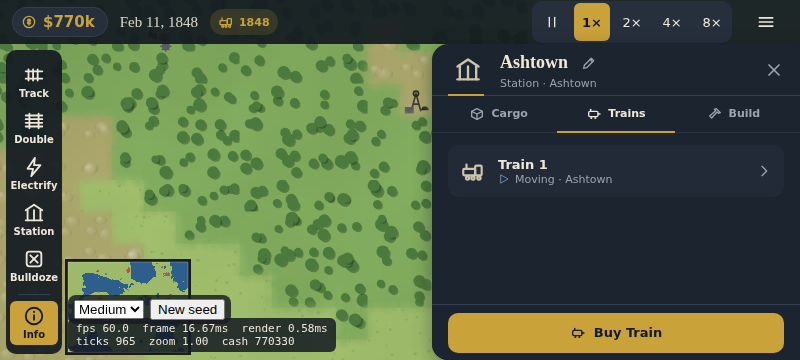
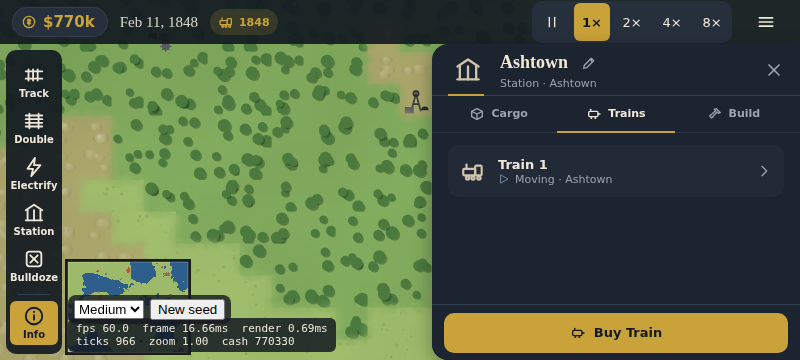
Phase 20: polish, placement/finance footers, docs, screenshots
Claude-Session: https://claude.ai/code/session_01Ay5RoodZxL8iWiZovS5TPK

diff --git a/src/ui/theme.css b/src/ui/theme.css
@@ -553,6 +553,7 @@ button.chip {
   align-items: stretch;
 }
 .cargo-bar-track.mini {
+  flex: 0 0 auto;
   height: 4px;
   min-width: 56px;
   border-radius: 999px;
@@ -709,17 +710,17 @@ button.chip {
 .panel-actions {
   display: flex;
   align-items: center;
-  gap: var(--gap-2);
+  gap: 6px;
   flex: 0 0 auto;
   height: 56px;
-  padding: 0 var(--gap-4);
+  padding: 0 var(--gap-3);
   box-sizing: border-box;
   background: var(--ink-800);
   border-top: 1px solid var(--ink-600);
 }
 .panel-actions button {
   flex: 1;
-  padding: 0 8px;
+  padding: 0 6px;
   min-height: 40px;
   border-radius: var(--radius-m);
   border: none;
@@ -1340,89 +1341,28 @@ button.chip {
   font-variant-numeric: tabular-nums;
 }
 
-/* Finance panel. */
-.finance-loan-actions {
-  gap: var(--gap-2);
-}
-.finance-loan-btn {
-  flex: 1;
-  min-height: 44px;
-  border-radius: var(--radius-m);
-  border: 1px solid var(--ink-600);
-  background: transparent;
-  color: var(--text);
-  font: 700 var(--fs-s) var(--font-ui);
-}
-.finance-loan-btn:disabled {
-  opacity: 0.35;
-}
-.finance-bankrupt-warning {
-  color: var(--signal);
-  font-weight: 700;
-  font-size: var(--fs-s);
-}
-.finance-chart {
-  width: 100%;
-  height: auto;
-  background: var(--ink-700);
-  border-radius: var(--radius-m);
-}
-.finance-chart-legend {
-  display: flex;
-  align-items: center;
-  gap: var(--gap-2);
-  font-size: var(--fs-xs);
-  color: var(--muted);
-}
-.legend-dot {
-  width: 8px;
-  height: 8px;
-  border-radius: 999px;
-  display: inline-block;
-}
-.ledger-net-row {
-  font-weight: 700;
-  border-top: 1px solid var(--ink-600);
-  padding-top: var(--gap-2);
-  margin-top: 2px;
-}
-
 /* Yearly report dialog. */
 .yearly-report-headline {
   display: flex;
   align-items: center;
   justify-content: center;
   gap: var(--gap-2);
-  font: 700 var(--fs-l) var(--font-ui);
+  font: 700 var(--fs-m) var(--font-ui);
   text-align: center;
   padding: var(--gap-2);
   border-radius: var(--radius-m);
-  background: var(--ink-700);
+  background: var(--ink-750);
 }
 .yearly-report-headline.good {
   color: var(--go);
+  background: var(--go-soft);
 }
 .yearly-report-headline.bad {
   color: var(--signal);
+  background: var(--signal-soft);
 }
 
 /* ☰ Menu: overlay toggles + mini-map toggle. */
-.menu-toggle-btn {
-  width: 100%;
-  min-height: 44px;
-  border-radius: var(--radius-m);
-  border: 1px solid var(--ink-600);
-  background: transparent;
-  color: var(--text);
-  font: 700 var(--fs-s) var(--font-ui);
-  text-align: left;
-  padding: 0 var(--gap-3);
-}
-.menu-toggle-btn.active {
-  background: var(--brass);
-  color: var(--ink-900);
-  border-color: var(--brass);
-}
 .menu-cargo-picker {
   display: flex;
   flex-wrap: wrap;
@@ -2566,8 +2506,9 @@ button.card-row:disabled {
 .credit-row .meter-row {
   flex: 1;
 }
-.fbtn-wide {
-  flex: 1.8 !important;
+.panel-actions button.fbtn-wide {
+  flex: 0 0 auto;
+  padding: 0 10px;
 }
 .year-switch .segmented-btn {
   min-height: 28px;
@@ -2576,4 +2517,11 @@ button.card-row:disabled {
 }
 .year-switch {
   padding: 2px;
+}
+.stat-row-4 {
+  grid-template-columns: repeat(4, minmax(0, 1fr));
+  gap: 6px;
+}
+.stat-row-4 .stat-tile {
+  padding: 8px;
 }

diff --git a/e2e/phase20.spec.ts b/e2e/phase20.spec.ts
@@ -125,6 +125,8 @@ test.describe("Phase 20 — UI v2 panels", () => {
     await shot(page, "station-trains");
     await page.locator(".tab", { hasText: "Build" }).click();
     await shot(page, "station-build");
+    await page.locator(".panel-body").evaluate((el) => (el.scrollTop = el.scrollHeight));
+    await shot(page, "station-build-scrolled");
   });
 
   test("industry panel", async ({ page }) => {
@@ -214,5 +216,30 @@ test.describe("Phase 20 — UI v2 panels", () => {
     await page.evaluate(() => window.__game!.runDays(330));
     await page.waitForTimeout(400);
     await shot(page, "yearly-report");
+  });
+
+  test("station placement panel", async ({ page }) => {
+    await setup(page);
+    await page.evaluate(
+      ({ y }) => {
+        const g = window.__game!;
+        const w = g.getMap().width;
+        g.buildTrackPath(Array.from({ length: 20 }, (_, i) => y * w + 71 + i));
+      },
+      { y: ROW_Y },
+    );
+    await page.evaluate(
+      ({ y, tile }) => {
+        window.__game!.camera.setCenter(76.5 * tile, (y + 0.5) * tile);
+        window.__game!.camera.setZoom(1.5);
+      },
+      { y: ROW_Y, tile: TILE_SIZE },
+    );
+    await page.getByRole("button", { name: "Station", exact: true }).click();
+    const p = await page.evaluate(({ y }) => window.__game!.tileScreenPoint(76, y), { y: ROW_Y });
+    await page.mouse.click(p.x, p.y);
+    await expect(page.locator(".panel-title")).toHaveText("New Station");
+    await panelLayoutOk(page);
+    await shot(page, "station-placement");
   });
 });

diff --git a/src/ui/strings.ts b/src/ui/strings.ts
@@ -137,9 +137,9 @@ export const strings = {
     type: "Type",
     tapTrackTile: "Tap a straight or dead-end track tile to place a station",
     catchment: "Catchment",
-    maxTrainLength: "Max train length",
-    storagePerCargo: "Storage/cargo",
-    monthlyMaintenance: "Maintenance",
+    maxTrainLength: "Max cars",
+    storagePerCargo: "Storage",
+    monthlyMaintenance: "Upkeep",
     perMonth: "/mo",
     /** PLAN Phase 16: city/station Supplies chips spell out "/ month" plus the cargo's unit word
      * (if any) instead of a bare number, so "42" reads as "42 / month" and "13" as "13 bags /

diff --git a/src/ui/stationPanels.ts b/src/ui/stationPanels.ts
@@ -268,7 +268,11 @@ export function openStationPlacementPanel(
 
   const statsEl = h("div", { className: "station-stats" });
   const economyEl = h("div", { className: "station-economy" });
-  const buildBtn = footerButton({ kind: "primary", className: "panel-action-build" });
+  const buildBtn = footerButton({
+    kind: "primary",
+    label: strings.station.build,
+    className: "panel-action-build",
+  });
   const cancelBtn = footerButton({
     icon: "close",
     ariaLabel: strings.ui.close,

diff --git a/src/ui/components/statTile.ts b/src/ui/components/statTile.ts
@@ -25,5 +25,5 @@ export function statTile(options: StatTileOptions): HTMLElement {
 }
 
 export function statRow(...tiles: HTMLElement[]): HTMLElement {
-  return h("div", { className: "stat-row" }, ...tiles);
+  return h("div", { className: `stat-row${tiles.length === 4 ? " stat-row-4" : ""}` }, ...tiles);
 }

diff --git a/docs/PROGRESS.md b/docs/PROGRESS.md
@@ -3759,3 +3759,55 @@ Tests: 397 unit (was 390), 105 e2e (was 99); `npm run check` and `npm run e2e` g
 ### Screenshots (opened and checked) — `docs/screenshots/phase-19-*.png`
 `gallery-steam`, `gallery-modern`, `gallery-cars`, `gallery-consists`, `map-steam-smoke-zoom2`, `map-diesel-zoom2`.
 Other phases' screenshot churn was reverted.
+
+## 2026-09-29 — Phase 20: UI system v2 (chrome and non-train panels)
+
+Tests: 406 unit (new `tests/ui/chartMath.test.ts`), 106 e2e (new `e2e/phase20.spec.ts`, 8 tests); `npm run check` and
+`npm run e2e` green. Runs in parallel with Phase 19 (rebased onto its commits; no shared files besides `theme.css`/`main.ts`
+hunks that merged cleanly).
+
+### What changed
+- **Tokens** (STYLE §8.1) added to `theme.css`; `--panel-w` drives the panel width.
+- **Components** in `src/ui/components/`: `panelHeader`, `tabs`, `statTile`/`statRow`, `meter`/`pips`, `cardRow`/`cardList`,
+  `toggleRow`, `emptyState`, `section`, `footerButton`, `charts` (`drawSparkline`, `stackedBar`), `ledgerParts`, plus the pure
+  `chartMath` (sparkline points, stack fractions, meter/pip clamps, cash-flash tone — unit-tested).
+- **`panel.ts`**: PanelHeader v2 (52px, thumb slot, ghost close, brass accent segment), optional sticky tabs row, Footer v2
+  (56px, `.panel-actions` kept as the class). New `key` option + in-place replacement: re-opening a panel (tab switch, action
+  re-render) no longer replays the slide-in and keeps the scroll position for the same `key`. **All** panels, including the
+  train/buy panels, get the new header/footer through it; their inner content is untouched (Phase 22).
+- **Chrome**: cash chip (coin icon, flashes `--go`/`--signal` 600 ms on change), era badge after the date (newest buyable
+  engine's traction icon + intro year), 56px left rail (labels `--fs-2xs`, hairline gap before Info), one vertical pill for
+  Goals/News/Trains (classes unchanged; the pill hides while a panel is open), menu as grouped card lists with toggle rows.
+- **Panels restyled**: City, Station (tabs Cargo / Trains / Build; upgrade card + improvements grid + stats tiles in Build;
+  Buy train is the footer primary), Station placement (type cards with building icons, stat tiles), Industry (recipe as
+  pictograms, chips, nearest-source card rows), Finance (tabs Overview / This year, sparkline, credit meter, income and cost
+  stacked bars, Borrow / Repay / Yearly Report in the footer), Yearly report, News (icon + date rows, unread accent), Goals
+  (medal, meter, %), Settings and Save/Load screens (card lists, switches, icon buttons).
+- The stray glyph after the city population was the growth icon rendered unsized; it is now a 12px tone-coloured arrow
+  (green when growing, muted dash when stagnant) inside the subtitle.
+- Fixed a latent bug: `.cargo-bar-track` had `flex: 1`, which collapsed the station panel's thin waiting-cargo bars to 0px
+  inside their column (they were invisible before this phase).
+
+### e2e selector changes (intent kept)
+- `stations.spec` / `phase18.spec`: the station upgrade button and the train list moved to the **Build** and **Trains** tabs, so
+  those tests click the tab first. `phase18` industry recipe: the sentence is now the recipe row's `aria-label` (pictograms are
+  visible), still asserted as "Makes Goods from Steel or Lumber" plus the visible "or".
+
+### Deviations from STYLE / SPEC
+- Era badge and the menu's **Roster** row are stubs: they show a toast ("coming soon") until Phase 22 wires the roster screen.
+- Menu has Save Game, Settings, Roster only: Load and Quit-to-title do not exist in-game yet (not added; out of scope).
+- Industry panel thumb is the tile of its first produced cargo (a plain factory glyph for pure consumers) rather than one
+  generic glyph — reads better and is free. "Available from" moved into the subtitle ("Since 1830").
+- Finance "income by cargo" is a three-way bar (passengers / mail / freight) because the ledger only stores those three;
+  colours are the passengers/mail/goods cargo colours. Costs use `--signal` tints.
+- City subtitle has no "▲2%" growth percentage (the sim keeps no growth rate); it shows an arrow icon (growing / stagnant).
+- A 4-tile `StatTile` row uses `repeat(4, 1fr)` (the 84px auto-fit wrapped to 3+1 at 336px) with short captions.
+- Station "Trains" rows use a plain traction-type icon (steam/diesel/electric) until Phase 22 swaps in side views.
+- Removed the old full-width `.station-buy-train-btn` / water-tower button styles; the Buy train button keeps its class.
+
+### Screenshots (opened and checked, 800×360) — `docs/screenshots/phase-20-*.png`
+`city`, `city-1280` (1280×720), `station-cargo` (supplies with waiting bars + demands on the first screen), `station-trains`,
+`station-build`, `station-build-scrolled`, `station-placement`, `industry`, `finance-overview`, `finance-year`, `menu`,
+`topbar`, `settings`, `save`, `news`, `goals`, `yearly-report`, `train-shell` (train panel with the new header/footer only).
+- Nits: with no station near the city, "Served by" shows an empty-state line and Actions start just below the fold; the yearly
+  report and finance year tab read "Nothing yet" for revenue in the test world (no deliveries in that scenario).

diff --git a/docs/PLAN.md b/docs/PLAN.md
@@ -637,16 +637,16 @@ STYLE §9 · files: `src/render/art/**` (new), `src/render/trains.ts`, a small d
 
 ## Phase 20 — UI system v2 (chrome and non-train panels)
 STYLE §8 · files: `src/ui/**` except the train/buy panels' inner content, `theme.css`, `strings.ts`
-- [ ] Tokens (§8.1) and components under `src/ui/components/` (§8.2): PanelHeader v2, Tabs, StatTile, Meter, Pips,
+- [x] Tokens (§8.1) and components under `src/ui/components/` (§8.2): PanelHeader v2, Tabs, StatTile, Meter, Pips,
       CardRow, ToggleRow, Sparkline/StackedBar helpers, Footer v2, EmptyState. Unit tests for pure helpers.
-- [ ] `panel.ts` uses PanelHeader v2 (thumb slot, compact close) and Footer v2 for **all** panels; panel width token.
-- [ ] Chrome (§8.3): cash chip with change flash, era badge (Roster link can be a stub that Phase 22 wires),
+- [x] `panel.ts` uses PanelHeader v2 (thumb slot, compact close) and Footer v2 for **all** panels; panel width token.
+- [x] Chrome (§8.3): cash chip with change flash, era badge (Roster link can be a stub that Phase 22 wires),
       left rail spacing/grouping, right floating pill, menu as grouped card lists with toggle rows.
-- [ ] City, Station (tabs Cargo/Trains/Build; train rows get a thumb slot — use a plain loco-type icon for now,
+- [x] City, Station (tabs Cargo/Trains/Build; train rows get a thumb slot — use a plain loco-type icon for now,
       Phase 22 swaps in side views), Industry, Finance (tabs, sparkline, stacked bars, credit meter), News,
       Goals, Settings, Save/Load panels restyled to v2.
-- [ ] Fix the broken glyph after the city population in the city subtitle.
-- [ ] Per-panel acceptance (§8.4) at 800×360: screenshots `phase-20-city.png`, `phase-20-station-cargo.png`,
+- [x] Fix the broken glyph after the city population in the city subtitle.
+- [x] Per-panel acceptance (§8.4) at 800×360: screenshots `phase-20-city.png`, `phase-20-station-cargo.png`,
       `phase-20-station-trains.png`, `phase-20-station-build.png`, `phase-20-industry.png`,
       `phase-20-finance-overview.png`, `phase-20-finance-year.png`, `phase-20-menu.png`, `phase-20-topbar.png`, plus
       the city panel at 1280×720. Open and check each one.
